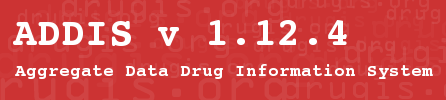
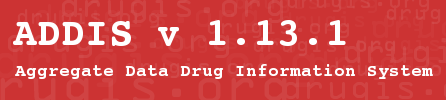
Automated changes for 1.13.1

Changed region(s): [[0.7287, 0.18, 0.787, 0.45], [0.6121, 0.3, 0.6704, 0.48], [0.6121, 0.21, 0.6704, 0.27]]

diff --git a/installer/src/izpack/README.html b/installer/src/izpack/README.html
@@ -15,6 +15,9 @@ modern operating systems ship with a suitable JRE.</p>
 
 <h2>Versions</h2>
 
+<p>1.13.1: Development release for saving Mixed Treatment Comparison results. 
+    The Inconsistency results can now be saved and loaded in ADDIS. </p>
+
 <p>1.12.4: The network meta-analysis simulation can be continued if it has
    not converged yet, and there is a new GUI for checking convergence.
    The benefit-risk analysis now uses the full covariance information

diff --git a/application/src/test/java/org/drugis/addis/entities/analysis/models/AbstractSimulationModelTest.java b/application/src/test/java/org/drugis/addis/entities/analysis/models/AbstractSimulationModelTest.java
@@ -1,3 +1,29 @@
+/*
+ * This file is part of ADDIS (Aggregate Data Drug Information System).
+ * ADDIS is distributed from http://drugis.org/.
+ * Copyright (C) 2009 Gert van Valkenhoef, Tommi Tervonen.
+ * Copyright (C) 2010 Gert van Valkenhoef, Tommi Tervonen, 
+ * Tijs Zwinkels, Maarten Jacobs, Hanno Koeslag, Florin Schimbinschi, 
+ * Ahmad Kamal, Daniel Reid.
+ * Copyright (C) 2011 Gert van Valkenhoef, Ahmad Kamal, 
+ * Daniel Reid, Florin Schimbinschi.
+ * Copyright (C) 2012 Gert van Valkenhoef, Daniel Reid, 
+ * Joël Kuiper, Wouter Reckman.
+ *
+ * This program is free software: you can redistribute it and/or modify
+ * it under the terms of the GNU General Public License as published by
+ * the Free Software Foundation, either version 3 of the License, or
+ * (at your option) any later version.
+ *
+ * This program is distributed in the hope that it will be useful,
+ * but WITHOUT ANY WARRANTY; without even the implied warranty of
+ * MERCHANTABILITY or FITNESS FOR A PARTICULAR PURPOSE.  See the
+ * GNU General Public License for more details.
+ *
+ * You should have received a copy of the GNU General Public License
+ * along with this program.  If not, see <http://www.gnu.org/licenses/>.
+ */
+
 package org.drugis.addis.entities.analysis.models;
 
 import static org.junit.Assert.assertNotNull;

diff --git a/application/src/main/java/org/drugis/addis/entities/analysis/models/MTCModelWrapper.java b/application/src/main/java/org/drugis/addis/entities/analysis/models/MTCModelWrapper.java
@@ -1,3 +1,29 @@
+/*
+ * This file is part of ADDIS (Aggregate Data Drug Information System).
+ * ADDIS is distributed from http://drugis.org/.
+ * Copyright (C) 2009 Gert van Valkenhoef, Tommi Tervonen.
+ * Copyright (C) 2010 Gert van Valkenhoef, Tommi Tervonen, 
+ * Tijs Zwinkels, Maarten Jacobs, Hanno Koeslag, Florin Schimbinschi, 
+ * Ahmad Kamal, Daniel Reid.
+ * Copyright (C) 2011 Gert van Valkenhoef, Ahmad Kamal, 
+ * Daniel Reid, Florin Schimbinschi.
+ * Copyright (C) 2012 Gert van Valkenhoef, Daniel Reid, 
+ * Joël Kuiper, Wouter Reckman.
+ *
+ * This program is free software: you can redistribute it and/or modify
+ * it under the terms of the GNU General Public License as published by
+ * the Free Software Foundation, either version 3 of the License, or
+ * (at your option) any later version.
+ *
+ * This program is distributed in the hope that it will be useful,
+ * but WITHOUT ANY WARRANTY; without even the implied warranty of
+ * MERCHANTABILITY or FITNESS FOR A PARTICULAR PURPOSE.  See the
+ * GNU General Public License for more details.
+ *
+ * You should have received a copy of the GNU General Public License
+ * along with this program.  If not, see <http://www.gnu.org/licenses/>.
+ */
+
 package org.drugis.addis.entities.analysis.models;
 
 import org.drugis.addis.entities.DrugSet;

diff --git a/application/src/main/java/org/drugis/addis/entities/analysis/models/SimulationNodeSplitModel.java b/application/src/main/java/org/drugis/addis/entities/analysis/models/SimulationNodeSplitModel.java
@@ -1,3 +1,29 @@
+/*
+ * This file is part of ADDIS (Aggregate Data Drug Information System).
+ * ADDIS is distributed from http://drugis.org/.
+ * Copyright (C) 2009 Gert van Valkenhoef, Tommi Tervonen.
+ * Copyright (C) 2010 Gert van Valkenhoef, Tommi Tervonen, 
+ * Tijs Zwinkels, Maarten Jacobs, Hanno Koeslag, Florin Schimbinschi, 
+ * Ahmad Kamal, Daniel Reid.
+ * Copyright (C) 2011 Gert van Valkenhoef, Ahmad Kamal, 
+ * Daniel Reid, Florin Schimbinschi.
+ * Copyright (C) 2012 Gert van Valkenhoef, Daniel Reid, 
+ * Joël Kuiper, Wouter Reckman.
+ *
+ * This program is free software: you can redistribute it and/or modify
+ * it under the terms of the GNU General Public License as published by
+ * the Free Software Foundation, either version 3 of the License, or
+ * (at your option) any later version.
+ *
+ * This program is distributed in the hope that it will be useful,
+ * but WITHOUT ANY WARRANTY; without even the implied warranty of
+ * MERCHANTABILITY or FITNESS FOR A PARTICULAR PURPOSE.  See the
+ * GNU General Public License for more details.
+ *
+ * You should have received a copy of the GNU General Public License
+ * along with this program.  If not, see <http://www.gnu.org/licenses/>.
+ */
+
 package org.drugis.addis.entities.analysis.models;
 
 import org.drugis.addis.entities.DrugSet;

diff --git a/application/src/main/java/org/drugis/addis/entities/analysis/models/NodeSplitWrapper.java b/application/src/main/java/org/drugis/addis/entities/analysis/models/NodeSplitWrapper.java
@@ -1,3 +1,29 @@
+/*
+ * This file is part of ADDIS (Aggregate Data Drug Information System).
+ * ADDIS is distributed from http://drugis.org/.
+ * Copyright (C) 2009 Gert van Valkenhoef, Tommi Tervonen.
+ * Copyright (C) 2010 Gert van Valkenhoef, Tommi Tervonen, 
+ * Tijs Zwinkels, Maarten Jacobs, Hanno Koeslag, Florin Schimbinschi, 
+ * Ahmad Kamal, Daniel Reid.
+ * Copyright (C) 2011 Gert van Valkenhoef, Ahmad Kamal, 
+ * Daniel Reid, Florin Schimbinschi.
+ * Copyright (C) 2012 Gert van Valkenhoef, Daniel Reid, 
+ * Joël Kuiper, Wouter Reckman.
+ *
+ * This program is free software: you can redistribute it and/or modify
+ * it under the terms of the GNU General Public License as published by
+ * the Free Software Foundation, either version 3 of the License, or
+ * (at your option) any later version.
+ *
+ * This program is distributed in the hope that it will be useful,
+ * but WITHOUT ANY WARRANTY; without even the implied warranty of
+ * MERCHANTABILITY or FITNESS FOR A PARTICULAR PURPOSE.  See the
+ * GNU General Public License for more details.
+ *
+ * You should have received a copy of the GNU General Public License
+ * along with this program.  If not, see <http://www.gnu.org/licenses/>.
+ */
+
 package org.drugis.addis.entities.analysis.models;
 
 import org.drugis.mtc.Parameter;

diff --git a/application/src/main/java/org/drugis/addis/entities/analysis/models/AbstractSavedModel.java b/application/src/main/java/org/drugis/addis/entities/analysis/models/AbstractSavedModel.java
@@ -1,3 +1,29 @@
+/*
+ * This file is part of ADDIS (Aggregate Data Drug Information System).
+ * ADDIS is distributed from http://drugis.org/.
+ * Copyright (C) 2009 Gert van Valkenhoef, Tommi Tervonen.
+ * Copyright (C) 2010 Gert van Valkenhoef, Tommi Tervonen, 
+ * Tijs Zwinkels, Maarten Jacobs, Hanno Koeslag, Florin Schimbinschi, 
+ * Ahmad Kamal, Daniel Reid.
+ * Copyright (C) 2011 Gert van Valkenhoef, Ahmad Kamal, 
+ * Daniel Reid, Florin Schimbinschi.
+ * Copyright (C) 2012 Gert van Valkenhoef, Daniel Reid, 
+ * Joël Kuiper, Wouter Reckman.
+ *
+ * This program is free software: you can redistribute it and/or modify
+ * it under the terms of the GNU General Public License as published by
+ * the Free Software Foundation, either version 3 of the License, or
+ * (at your option) any later version.
+ *
+ * This program is distributed in the hope that it will be useful,
+ * but WITHOUT ANY WARRANTY; without even the implied warranty of
+ * MERCHANTABILITY or FITNESS FOR A PARTICULAR PURPOSE.  See the
+ * GNU General Public License for more details.
+ *
+ * You should have received a copy of the GNU General Public License
+ * along with this program.  If not, see <http://www.gnu.org/licenses/>.
+ */
+
 package org.drugis.addis.entities.analysis.models;
 
 import java.util.ArrayList;

diff --git a/application/src/main/java/org/drugis/addis/entities/analysis/models/AbstractSimulationModel.java b/application/src/main/java/org/drugis/addis/entities/analysis/models/AbstractSimulationModel.java
@@ -1,3 +1,29 @@
+/*
+ * This file is part of ADDIS (Aggregate Data Drug Information System).
+ * ADDIS is distributed from http://drugis.org/.
+ * Copyright (C) 2009 Gert van Valkenhoef, Tommi Tervonen.
+ * Copyright (C) 2010 Gert van Valkenhoef, Tommi Tervonen, 
+ * Tijs Zwinkels, Maarten Jacobs, Hanno Koeslag, Florin Schimbinschi, 
+ * Ahmad Kamal, Daniel Reid.
+ * Copyright (C) 2011 Gert van Valkenhoef, Ahmad Kamal, 
+ * Daniel Reid, Florin Schimbinschi.
+ * Copyright (C) 2012 Gert van Valkenhoef, Daniel Reid, 
+ * Joël Kuiper, Wouter Reckman.
+ *
+ * This program is free software: you can redistribute it and/or modify
+ * it under the terms of the GNU General Public License as published by
+ * the Free Software Foundation, either version 3 of the License, or
+ * (at your option) any later version.
+ *
+ * This program is distributed in the hope that it will be useful,
+ * but WITHOUT ANY WARRANTY; without even the implied warranty of
+ * MERCHANTABILITY or FITNESS FOR A PARTICULAR PURPOSE.  See the
+ * GNU General Public License for more details.
+ *
+ * You should have received a copy of the GNU General Public License
+ * along with this program.  If not, see <http://www.gnu.org/licenses/>.
+ */
+
 package org.drugis.addis.entities.analysis.models;
 
 import java.util.ArrayList;

diff --git a/application/src/main/java/org/drugis/addis/entities/analysis/models/SavedInconsistencyModel.java b/application/src/main/java/org/drugis/addis/entities/analysis/models/SavedInconsistencyModel.java
@@ -1,3 +1,29 @@
+/*
+ * This file is part of ADDIS (Aggregate Data Drug Information System).
+ * ADDIS is distributed from http://drugis.org/.
+ * Copyright (C) 2009 Gert van Valkenhoef, Tommi Tervonen.
+ * Copyright (C) 2010 Gert van Valkenhoef, Tommi Tervonen, 
+ * Tijs Zwinkels, Maarten Jacobs, Hanno Koeslag, Florin Schimbinschi, 
+ * Ahmad Kamal, Daniel Reid.
+ * Copyright (C) 2011 Gert van Valkenhoef, Ahmad Kamal, 
+ * Daniel Reid, Florin Schimbinschi.
+ * Copyright (C) 2012 Gert van Valkenhoef, Daniel Reid, 
+ * Joël Kuiper, Wouter Reckman.
+ *
+ * This program is free software: you can redistribute it and/or modify
+ * it under the terms of the GNU General Public License as published by
+ * the Free Software Foundation, either version 3 of the License, or
+ * (at your option) any later version.
+ *
+ * This program is distributed in the hope that it will be useful,
+ * but WITHOUT ANY WARRANTY; without even the implied warranty of
+ * MERCHANTABILITY or FITNESS FOR A PARTICULAR PURPOSE.  See the
+ * GNU General Public License for more details.
+ *
+ * You should have received a copy of the GNU General Public License
+ * along with this program.  If not, see <http://www.gnu.org/licenses/>.
+ */
+
 package org.drugis.addis.entities.analysis.models;
 
 import java.util.ArrayList;

diff --git a/application/src/main/java/org/drugis/addis/entities/analysis/models/SimulationConsistencyModel.java b/application/src/main/java/org/drugis/addis/entities/analysis/models/SimulationConsistencyModel.java
@@ -1,3 +1,29 @@
+/*
+ * This file is part of ADDIS (Aggregate Data Drug Information System).
+ * ADDIS is distributed from http://drugis.org/.
+ * Copyright (C) 2009 Gert van Valkenhoef, Tommi Tervonen.
+ * Copyright (C) 2010 Gert van Valkenhoef, Tommi Tervonen, 
+ * Tijs Zwinkels, Maarten Jacobs, Hanno Koeslag, Florin Schimbinschi, 
+ * Ahmad Kamal, Daniel Reid.
+ * Copyright (C) 2011 Gert van Valkenhoef, Ahmad Kamal, 
+ * Daniel Reid, Florin Schimbinschi.
+ * Copyright (C) 2012 Gert van Valkenhoef, Daniel Reid, 
+ * Joël Kuiper, Wouter Reckman.
+ *
+ * This program is free software: you can redistribute it and/or modify
+ * it under the terms of the GNU General Public License as published by
+ * the Free Software Foundation, either version 3 of the License, or
+ * (at your option) any later version.
+ *
+ * This program is distributed in the hope that it will be useful,
+ * but WITHOUT ANY WARRANTY; without even the implied warranty of
+ * MERCHANTABILITY or FITNESS FOR A PARTICULAR PURPOSE.  See the
+ * GNU General Public License for more details.
+ *
+ * You should have received a copy of the GNU General Public License
+ * along with this program.  If not, see <http://www.gnu.org/licenses/>.
+ */
+
 package org.drugis.addis.entities.analysis.models;
 
 import java.util.ArrayList;

diff --git a/application/src/main/java/org/drugis/addis/entities/analysis/models/ConsistencyWrapper.java b/application/src/main/java/org/drugis/addis/entities/analysis/models/ConsistencyWrapper.java
@@ -1,3 +1,29 @@
+/*
+ * This file is part of ADDIS (Aggregate Data Drug Information System).
+ * ADDIS is distributed from http://drugis.org/.
+ * Copyright (C) 2009 Gert van Valkenhoef, Tommi Tervonen.
+ * Copyright (C) 2010 Gert van Valkenhoef, Tommi Tervonen, 
+ * Tijs Zwinkels, Maarten Jacobs, Hanno Koeslag, Florin Schimbinschi, 
+ * Ahmad Kamal, Daniel Reid.
+ * Copyright (C) 2011 Gert van Valkenhoef, Ahmad Kamal, 
+ * Daniel Reid, Florin Schimbinschi.
+ * Copyright (C) 2012 Gert van Valkenhoef, Daniel Reid, 
+ * Joël Kuiper, Wouter Reckman.
+ *
+ * This program is free software: you can redistribute it and/or modify
+ * it under the terms of the GNU General Public License as published by
+ * the Free Software Foundation, either version 3 of the License, or
+ * (at your option) any later version.
+ *
+ * This program is distributed in the hope that it will be useful,
+ * but WITHOUT ANY WARRANTY; without even the implied warranty of
+ * MERCHANTABILITY or FITNESS FOR A PARTICULAR PURPOSE.  See the
+ * GNU General Public License for more details.
+ *
+ * You should have received a copy of the GNU General Public License
+ * along with this program.  If not, see <http://www.gnu.org/licenses/>.
+ */
+
 package org.drugis.addis.entities.analysis.models;
 
 import java.util.List;

diff --git a/application/src/main/java/org/drugis/addis/entities/analysis/models/InconsistencyWrapper.java b/application/src/main/java/org/drugis/addis/entities/analysis/models/InconsistencyWrapper.java
@@ -1,3 +1,29 @@
+/*
+ * This file is part of ADDIS (Aggregate Data Drug Information System).
+ * ADDIS is distributed from http://drugis.org/.
+ * Copyright (C) 2009 Gert van Valkenhoef, Tommi Tervonen.
+ * Copyright (C) 2010 Gert van Valkenhoef, Tommi Tervonen, 
+ * Tijs Zwinkels, Maarten Jacobs, Hanno Koeslag, Florin Schimbinschi, 
+ * Ahmad Kamal, Daniel Reid.
+ * Copyright (C) 2011 Gert van Valkenhoef, Ahmad Kamal, 
+ * Daniel Reid, Florin Schimbinschi.
+ * Copyright (C) 2012 Gert van Valkenhoef, Daniel Reid, 
+ * Joël Kuiper, Wouter Reckman.
+ *
+ * This program is free software: you can redistribute it and/or modify
+ * it under the terms of the GNU General Public License as published by
+ * the Free Software Foundation, either version 3 of the License, or
+ * (at your option) any later version.
+ *
+ * This program is distributed in the hope that it will be useful,
+ * but WITHOUT ANY WARRANTY; without even the implied warranty of
+ * MERCHANTABILITY or FITNESS FOR A PARTICULAR PURPOSE.  See the
+ * GNU General Public License for more details.
+ *
+ * You should have received a copy of the GNU General Public License
+ * along with this program.  If not, see <http://www.gnu.org/licenses/>.
+ */
+
 package org.drugis.addis.entities.analysis.models;
 
 import java.util.List;

diff --git a/application/src/main/java/org/drugis/addis/entities/analysis/models/SavedConsistencyModel.java b/application/src/main/java/org/drugis/addis/entities/analysis/models/SavedConsistencyModel.java
@@ -1,3 +1,29 @@
+/*
+ * This file is part of ADDIS (Aggregate Data Drug Information System).
+ * ADDIS is distributed from http://drugis.org/.
+ * Copyright (C) 2009 Gert van Valkenhoef, Tommi Tervonen.
+ * Copyright (C) 2010 Gert van Valkenhoef, Tommi Tervonen, 
+ * Tijs Zwinkels, Maarten Jacobs, Hanno Koeslag, Florin Schimbinschi, 
+ * Ahmad Kamal, Daniel Reid.
+ * Copyright (C) 2011 Gert van Valkenhoef, Ahmad Kamal, 
+ * Daniel Reid, Florin Schimbinschi.
+ * Copyright (C) 2012 Gert van Valkenhoef, Daniel Reid, 
+ * Joël Kuiper, Wouter Reckman.
+ *
+ * This program is free software: you can redistribute it and/or modify
+ * it under the terms of the GNU General Public License as published by
+ * the Free Software Foundation, either version 3 of the License, or
+ * (at your option) any later version.
+ *
+ * This program is distributed in the hope that it will be useful,
+ * but WITHOUT ANY WARRANTY; without even the implied warranty of
+ * MERCHANTABILITY or FITNESS FOR A PARTICULAR PURPOSE.  See the
+ * GNU General Public License for more details.
+ *
+ * You should have received a copy of the GNU General Public License
+ * along with this program.  If not, see <http://www.gnu.org/licenses/>.
+ */
+
 package org.drugis.addis.entities.analysis.models;
 
 import java.util.List;
